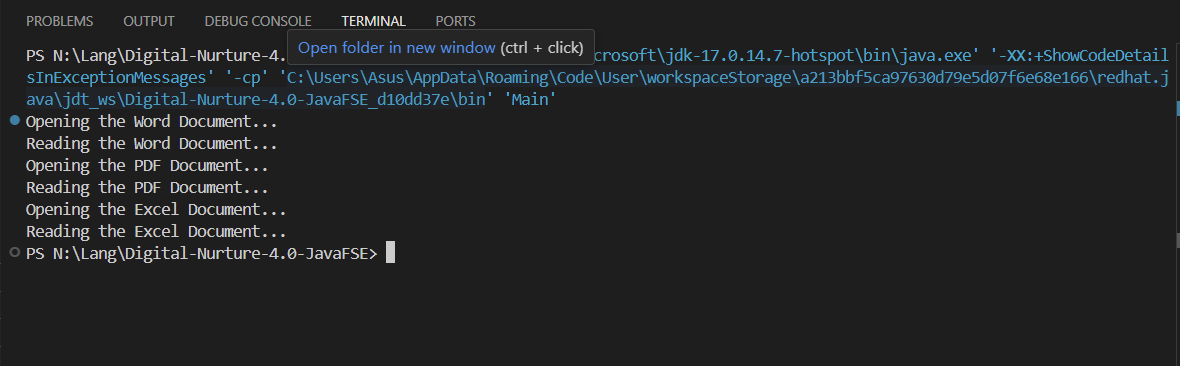
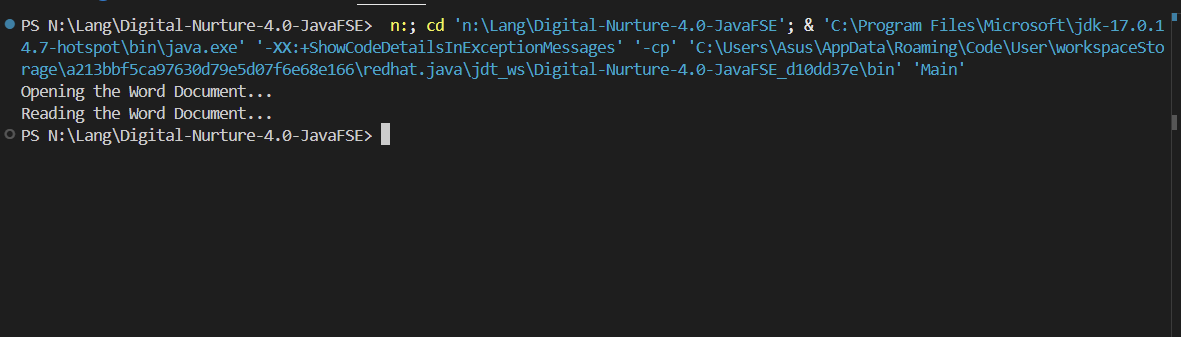
factory method main method changes are made

diff --git a/Week1/DesignPatternsAndPrinciples/FactoryMethodPatternExample/Main.java b/Week1/DesignPatternsAndPrinciples/FactoryMethodPatternExample/Main.java
@@ -1,23 +1,18 @@
 public class Main {
     public static void main(String[] args) {
         DocumentFactory factory;
+        String type = "word";
 
-        //Word Document
-        factory = new WordDocumentFactory();
-        Document word = factory.createDocument();
-        word.Open();
-        word.Read();
+        if (type.equalsIgnoreCase("word")) {
+            factory = new WordDocumentFactory();
+        } else if (type.equalsIgnoreCase("pdf")) {
+            factory = new PDFDocumentFactory();
+        } else {
+            factory = new ExcelDocumentFactory();
+        }
 
-        //PDF Document
-        factory = new PDFDocumentFactory();
-        Document pdf = factory.createDocument();
-        pdf.Open();
-        pdf.Read();
-
-        //Excel Document
-        factory = new ExcelDocumentFactory();
-        Document excel = factory.createDocument();
-        excel.Open();
-        excel.Read();
+        Document doc = factory.createDocument(); 
+        doc.Open();
+        doc.Read();
     }
 }

diff --git a/Week1/DesignPatternsAndPrinciples/BuilderPatternExample/Computer.java b/Week1/DesignPatternsAndPrinciples/BuilderPatternExample/Computer.java
@@ -55,25 +55,14 @@ public class Computer {
             this.RAM = RAM;
         }
 
-        public String getCPU(){
-            return CPU;
-        }
-
         public ComputerBuilder setCPU(String CPU){
             this.CPU = CPU;
             return this;
         }
 
-        public int getRAM(){
-            return RAM;
-        }
-
         public ComputerBuilder setRAM(int RAM){
             this.RAM = RAM;
             return this;
-        }
-        public int getStorage(){
-            return Storage;
         }
 
         public ComputerBuilder setStorage(int Storage){
@@ -86,9 +75,6 @@ public class Computer {
             return this;
         }
 
-        public String getGPU() {
-            return GPU;
-        }
         
 
         // Passing the current builder object to the private constructor of Computer
